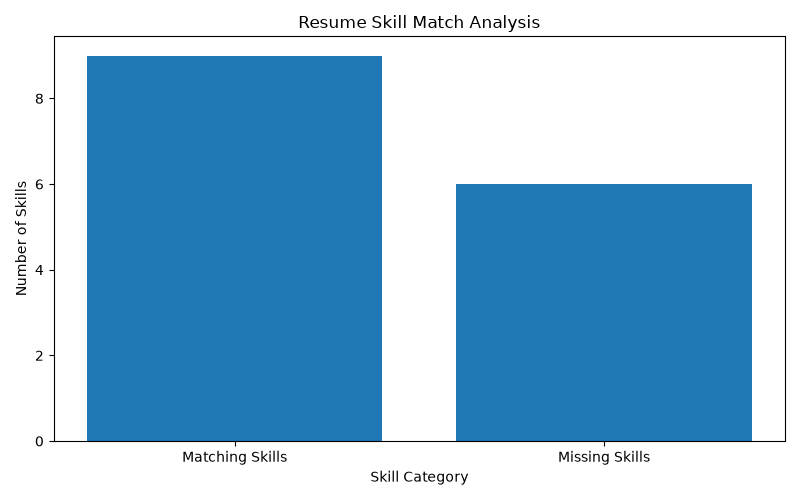
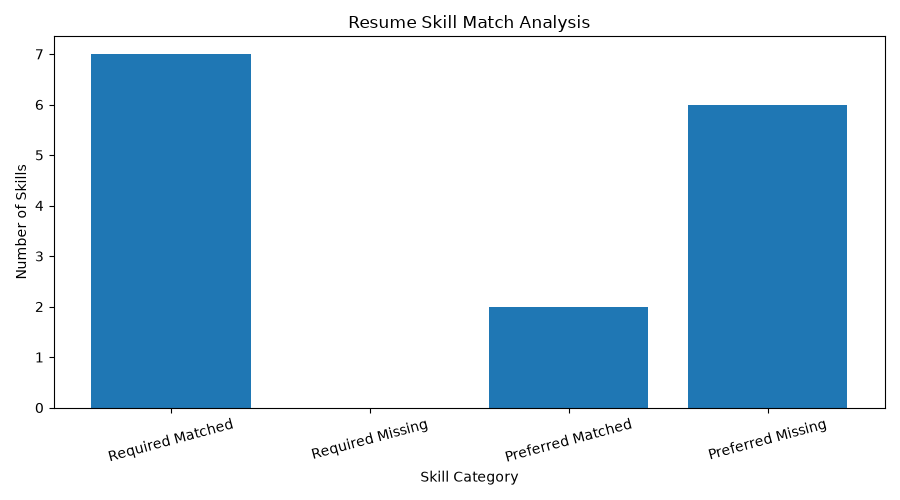
Improve skill matching and analysis

diff --git a/resume_analyzer.py b/resume_analyzer.py
@@ -47,27 +47,28 @@ job_lower = job_description.lower()
 # SKILL ANALYSIS
 # ==========================================
 
-skills = [
+required_skills = [
     "python",
     "sql",
     "pandas",
     "numpy",
     "scikit-learn",
+    "git",
+    "github"
+]
+
+preferred_skills = [
     "machine learning",
     "data analysis",
     "business analytics",
     "statistics",
     "data visualization",
-    "git",
-    "github",
-    "java",
-    "c++",
-    "html",
     "communication",
     "problem-solving",
     "analytical thinking"
 ]
 
+skills = required_skills + preferred_skills
 
 matching_skills = []
 missing_skills = []
@@ -145,34 +146,50 @@ print("\nResume text extracted from PDF successfully!")
 print("\nAnalysis completed successfully!")
 
 # ==========================================
-# SKILL MATCH SCORE
+# WEIGHTED SKILL MATCH SCORE
 # ==========================================
 
-required_skills = [
-    skill for skill in skills
+required_job_skills = [
+    skill for skill in required_skills
     if skill in job_lower
 ]
 
-if required_skills:
+preferred_job_skills = [
+    skill for skill in preferred_skills
+    if skill in job_lower
+]
 
-    skill_match_score = (
-        len(matching_skills) / len(required_skills)
-    ) * 100
+required_matches = [
+    skill for skill in required_job_skills
+    if skill in resume_lower
+]
 
-else:
+preferred_matches = [
+    skill for skill in preferred_job_skills
+    if skill in resume_lower
+]
 
-    skill_match_score = 0
-
-
-print("\nSkill Match Score:")
-print(
-    f"{skill_match_score:.2f}%"
+required_score = (
+    len(required_matches) / len(required_job_skills) * 70
+    if required_job_skills else 0
 )
 
+preferred_score = (
+    len(preferred_matches) / len(preferred_job_skills) * 30
+    if preferred_job_skills else 0
+)
 
-print("\nTotal Job Skills:", len(required_skills))
-print("Matching Skills:", len(matching_skills))
-print("Missing Skills:", len(missing_skills))
+weighted_skill_score = required_score + preferred_score
+
+
+print("\nWeighted Skill Match Score:")
+print(f"{weighted_skill_score:.2f}%")
+
+print("\nRequired Skills:", len(required_job_skills))
+print("Required Skills Matched:", len(required_matches))
+
+print("Preferred Skills:", len(preferred_job_skills))
+print("Preferred Skills Matched:", len(preferred_matches))
 
 # ==========================================
 # RECOMMENDATIONS
@@ -193,19 +210,32 @@ else:
     print("Your resume covers all identified job skills!")
 
 # ==========================================
-# SKILL MATCH VISUALIZATION
+# WEIGHTED SKILL MATCH VISUALIZATION
 # ==========================================
 
-labels = ["Matching Skills", "Missing Skills"]
-values = [len(matching_skills), len(missing_skills)]
+categories = [
+    "Required Matched",
+    "Required Missing",
+    "Preferred Matched",
+    "Preferred Missing"
+]
 
-plt.figure(figsize=(8, 5))
+values = [
+    len(required_matches),
+    len(required_job_skills) - len(required_matches),
+    len(preferred_matches),
+    len(preferred_job_skills) - len(preferred_matches)
+]
 
-plt.bar(labels, values)
+plt.figure(figsize=(9, 5))
+
+plt.bar(categories, values)
 
 plt.title("Resume Skill Match Analysis")
 plt.xlabel("Skill Category")
 plt.ylabel("Number of Skills")
+
+plt.xticks(rotation=15)
 
 plt.tight_layout()
 
@@ -213,4 +243,4 @@ plt.savefig("skill_match_chart.png")
 
 plt.show()
 
-print("\nSkill match chart saved successfully!")
+print("\nSkill match chart updated successfully!")

diff --git a/README.md b/README.md
@@ -90,3 +90,20 @@ AI-Resume-Job-Match-Analyzer/
 
 └── skill\_match\_chart.png
 
+## Example Results
+
+- Resume–Job Match Score: 34.59%
+- Weighted Skill Match Score: 77.50%
+- Required Skills Matched: 7/7
+- Preferred Skills Matched: 2/8
+- Matching Skills: 9
+- Missing Skills: 6
+
+## Future Improvements
+
+- Generate detailed PDF analysis reports
+- Add interactive dashboard
+- Build a web-based interface
+- Improve skill extraction using advanced NLP models
+- Support multiple resume formats
+
